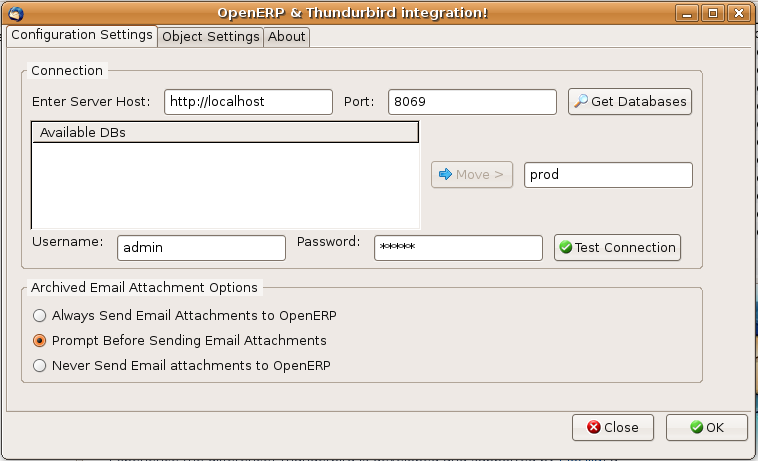
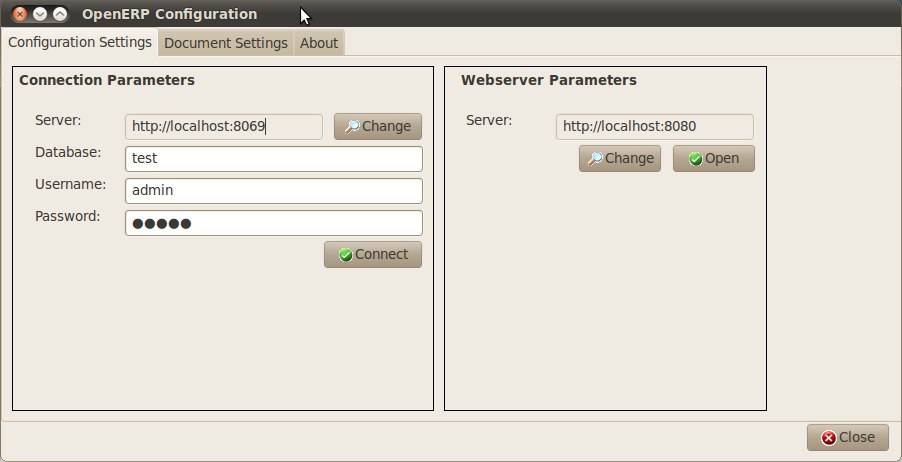
[IMP] new thunderbird documentation

diff --git a/2/2_6_Comms/2_6_Comms_thunderbird.rst b/2/2_6_Comms/2_6_Comms_thunderbird.rst
@@ -4,102 +4,151 @@
 Mozilla Thunderbird interface
 =============================
 
-Everything that you can do with the Outlook plugin you can also do with the Mozilla Thunderbird
-plugin – enabling you to carry out a series of Open ERP operations directly from Thunderbird, such
-as:
+With the Mozilla Thunderbird plugin you can carry out a series of OpenERP operations directly from Thunderbird, such as:
 
-* create a contact or partner from an email,
+* create a contact or partner from an e-mail,
 
-* save an email and its attachments in Open ERP,
+* save an e-mail and its attachments in OpenERP,
 
-* send any file attached to an Open ERP document (such as proposals, projects, and tasks).
+* send any attachment to an OpenERP document (such as proposals, projects, and tasks).
 
-Installing the Thunderbird extension
-------------------------------------
+Installing the Thunderbird plugin
+---------------------------------
 
-To be able to use the Thunderbird plugin you first have to install the Open ERP module \
-``thunderbird``\  . It may not be loaded in the core of the Open ERP Server so you might have
-to load it using one of the methods described at the end of :ref:`ch-inst`. Once you've got it into your
-server's filesystem it's installed the same way as all of the other modules you've handled so far.
+* Step 1: install the Thunderbird plugin in OpenERP
 
-You'll then have to install the Thunderbird extension. To do that, use the file \
-``tiny_plugin-2.0.xpi``\   which is found in the plugins directory of the :mod:`thunderbird`
-module. Don't install it again if it's already there (which it might be
-because you can use both Outlook and Thunderbird simultaneously to get the same Open ERP
-functionality – so some of your staff may use one and other may use the other). 
+Use the OpenERP Configuration Wizard and install the ``Customer Relationship Management`` application. In the *CRM Application Configuration* dialog under Plug-In, select Thunderbird.
+Then the *Thunderbird Plug-In* wizard appears. Next to the ``Thunderbird Plug-in`` field, click the ``Save As`` button to save the plugin to your desktop (or any other location on your computer).
 
-Then take the following steps:
+You can also download the installation manual by clicking the orange arrow next to ``Installation Manual``.  
 
-	#. From Thunderbird, open the menu :menuselection:`Tools --> Complementary Modules`.
+Another way to use the Thunderbird plugin, is by installing the OpenERP module \
+``thunderbird``\. When you install this module, the same Configuration Wizard as explained before will be displayed. Follow the same instructions.
 
-	#. Click the :guilabel:`Install` button.
+* Step 2: install the OpenERP extension in Thunderbird.
 
-	#. Select the file \ ``tiny_plugin-2.0.xpi``\.
+To do that, use the file \``openerp_plugin.xpi``\ that you saved on your desktop. 
+
+Then proceed as follows:
+
+	#. From Thunderbird, open the menu :menuselection:`Tools --> Add-ons`.
+
+	#. Click Extensions, then click the :guilabel:`Install` button.
+
+	#. Go to your desktop and select the file \ ``openerp_plugin.xpi``\. Click Open.
 
 	#. Click :guilabel:`Install Now` then restart Thunderbird.
 
-Once the extension has been installed, you have only to create a shortcut in your Thunderbird
-toolbar for the function :guilabel:`Archive to Open ERP`. Do it like this:
-
-	#. Click the right mouse button on the toolbar and select :guilabel:`Personalize`,
-
-	#. Place the icon :guilabel:`Archive to Open ERP` in your toolbar in the place of your choice.
+Once the extension has been installed, a new ``OpenERP`` menu item is added to your Thunderbird menubar. 
 
 .. tip::  Thunderbird version
 
-	The Open ERP plugin for Thunderbird only works with Thunderbird version 2.0 and above.
+	The OpenERP plugin for Thunderbird only works with Thunderbird version 2.0 and above.
 
 	So check your Thunderbird version before installing, and download the latest version that you need
 	from the following address: http://www.mozilla.org/products/thunderbird/
 
-Thunderbird user interface
---------------------------
+Configuring the Thunderbird plugin
+----------------------------------
 
-When you've installed the module the first thing to do is connect it to Open ERP from Thunderbird.
-To do this use the menu :menuselection:`Tools --> Open ERP Plugin`.
+When you have executed Installation Step 1 and Step 2, the first thing to do is connect Thunderbird to OpenERP.
+A little configuration needs to be done.
 
-A configuration window appears enabling you to enter configuration data about your Open ERP server.
+.. note:: Before starting the configuration, make sure your gtk server and web server are running (xml-rpc should be allowed).
+
+Go to the ``OpenERP`` menubar and select :guilabel:` Configuration`.
+
+A configuration window appears enabling you to enter configuration data about your OpenERP server.
 
 .. figure::  images/thunderbird_config.png
    :scale: 50
    :align: center
 
-   *Configuration for accessing Open ERP from Thunderbird*
+   *How to Connect to the Server*
 
-To archive an email in Open ERP from Thunderbird select the email and click on the icon
-:guilabel:`Archive in Open ERP`. Alternatively you could right-click the mouse: either opens a search
-dialog box.
+	#. On the ``Configuration Settings`` tab, under *Connection Parameters* click the :guilabel: `Change` button
+	   and type your server settings and xml-rpc port, e.g. ``http://127.0.0.1:8069``,
 
-This allows you to select an object that you'd like to add to your email and its attachments. You
-can select a partner, a task, a project, an analytical account, or any other object and attach 
-selected mail as .eml file in attachment of selected record.
+	#. Select the database you want to connect to, and type the user and the password required to log in to the database,
 
-You can create new case in crm using Create Case button.Select a section for which you want to
-create case.
+	#. Click the :guilabel: `Connect` button,
+
+	#. On the ``Configuration Settings`` tab, under *Webserver Parameters* click the :guilabel: `Change` button
+	   and type your web server settings, e.g. ``http://localhost:8080``,
+
+	#. Click the :guilabel: `Open` button to test the connection.
+
+When your connection has succeeded, you would typically want to configure Thunderbird to fit your needs.
+
+To define extra document types, go to the :guilabel: `Document Settings` tab. This is the place where you can add objects from OpenERP that you wish to link mails to. The default installation comes with a number of predefined documents, such as Partners, Leads and Sales Orders.
+
+Here is an example of how to configure extra document types. Suppose you would like to link mails to a purchase order.
+
+	#. In the :guilabel: `Title`, type Purchase Order,
+
+	#. In the :guilabel: `Document`, type the object from OpenERP, in this example ``purchase.order``,
+
+	#. In the :guilabel: `Image`, select an icon you would like to use,
+
+	#. Click the :guilabel: `Add` button to actually create the document type.
+
+.. note:: To find the object you need in OpenERP, go to the menu :menuselection:`Administration --> Customization --> Database Structure --> Objects`. OpenERP will only show objects for which the corresponding Business Applications / Modules have been installed. You can only add objects to Thunderbird that are available in the selected database.
+
+.. figure::  images/thunderbird_document.png
+   :scale: 50
+   :align: center
+
+   *How to Add Extra OpenERP Document Types to Thunderbird?*
+
+Using the Thunderbird plugin
+----------------------------
+
+You can use the menu :menuselection:`OpenERP` for several things.
+
+The :guilabel: `Push` option allows you to archive e-mails to OpenERP, either to new document types or to existing ones. It also allows you to create a new contact.
+
+The :guilabel: `Partner` allows you to open the Partner in OpenERP according to the e-mail (i.e. contact e-mail address) selected. 
+
+With the :guilabel: `Document`, you can open the document concerned in OpenERP. Make sure you are logged in to the web version to use this functionality. You have to open the mail to use this feature. 
+
+* Link a mail to an existing document in OpenERP
 
 .. figure::  images/thunderbird_selection.png
    :scale: 50
    :align: center
 
-   *Selecting Open ERP objects from Thunderbird*
+   *How to Access OpenERP from Thunderbird?*
 
-.. tip:: Document Management
+To archive an e-mail in OpenERP from Thunderbird, select the e-mail and click the :guilabel:`Push` button. Alternatively you can open the menu :menuselection:`OpenERP --> Push`: the ``Push to OpenERP`` screen will open.
 
-	The Thunderbird plugin is compatible with Open ERP's document management. So if you install the
-	module document you could:
+In the ``Link to an Existing Document`` section, select an object to which you like to add to your email and its attachments. You
+can select any object you defined in the ``Document Settings`` section and attach the selected mail to the selected record.
+The plugin also allows you to select several documents at once, simply by selecting a document and pressing the ``ctrl`` button when selecting the next document.
 
-	* search through the content of your company's documents (those that have the type .doc, .pdf, .sxw
-	  and .odt) and also in archived emails,
+Do not forget to click the ``Search`` button to refresh the Documents list when you have selected a different document type.    
 
-	* have a shared filesystem that's connected to various Open ERP documents to share information and
-	  access it with your favorite browser,
+* Create a New Document
 
-	* organize and structure your documents (such as projects, partners and users) in Open ERP's
-	  system.
+This feature can be used to create any of the configured document types in the ``Document Settings`` tab.
+Suppose you would like to create a new lead from an e-mail. In the ``Create a New Document`` section, select ``CRM Lead``, then click the ``Create`` button. A new lead will be created in OpenERP from the selected e-mail.
 
-If you can't find a partner or contact to correspond with your email in Open ERP it's possible to
-create one on the fly simply by using the information contained in the email and clicking the
-:guilabel:`Create` button.
+* Create a New Contact / Partner
+
+If you cannot find a partner or contact for your e-mail in OpenERP, the Thunderbird plugin allows you to
+create one on the fly simply by using the information contained in the e-mail.
+
+Select the e-mail from which you want to create a new contact, then click the ``Push`` button.
+In the ``Create a New Contact`` section, click the ``New Contact`` button. This option offers two possibilities:
+either you just create a contact (address), or you create a partner with the contact linked to it.
+
+	- When you just want to create a new contact, complete the address data in the dialog box and click the ``Save`` button.
+	  The contact will then be created in OpenERP.
+
+	- When you also want to create a new partner, complete the contact data.
+	  Then click the ``Create Partner`` button, add the partner's name and click the ``Save`` button.
+
+	- You can also add a new contact to an existing partner. Click the ``Search`` button next to the Partner field
+	  and select the corresponding partner from the list. Then complete the contact data and click the ``Save`` button.
 
 .. figure::  images/thunderbird_creation.png
    :scale: 50
@@ -107,14 +156,30 @@ create one on the fly simply by using the information contained in the email and
 
    *Creating a contact on the fly from Thunderbird*
 
-To access archived data from different documents in Open ERP you can use the :guilabel:`Email
-Thunderbird` interface that appears over Open ERP documents.
+* Open the Document created in OpenERP
 
-.. note:: Testing the Thunderbird adapter
+To access archived data from different documents in OpenERP you can use the menu :menuselection:`OpenERP --> Document` which allows you to access the document in OpenERP directly from your e-mail.
 
-	If you install the Thunderbird adapter as described,
+.. tip:: Knowledge Management
+
+	The Thunderbird plugin is compatible with OpenERP's Knowledge (i.e. Document) Management. If you install the
+	Knowledge application you will be able to:
+
+	* search through the content of your company's documents (those that have the type .doc, .pdf, .sxw
+	  and .odt) and also in archived emails,
+
+	* have a shared file system that is connected to various OpenERP documents to share information and
+	  access it with your favorite browser,
+
+	* organize and structure your documents (such as projects, partners and users) in OpenERP's
+	  system.
+
+.. note:: Testing the Thunderbird plugin
+
+	If you install the Thunderbird plugin as described,
 	explore its functionality as described in this section using the database you 
 	installed.
+
 
 .. Copyright © Open Object Press. All rights reserved.
 
